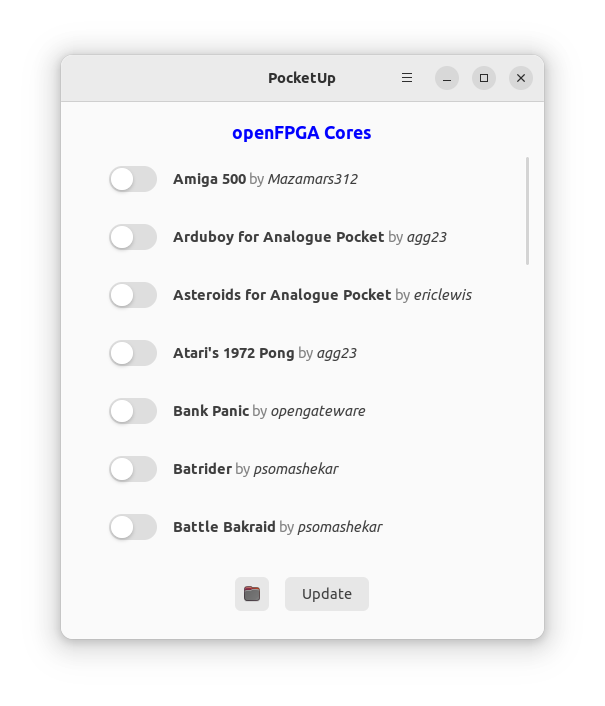
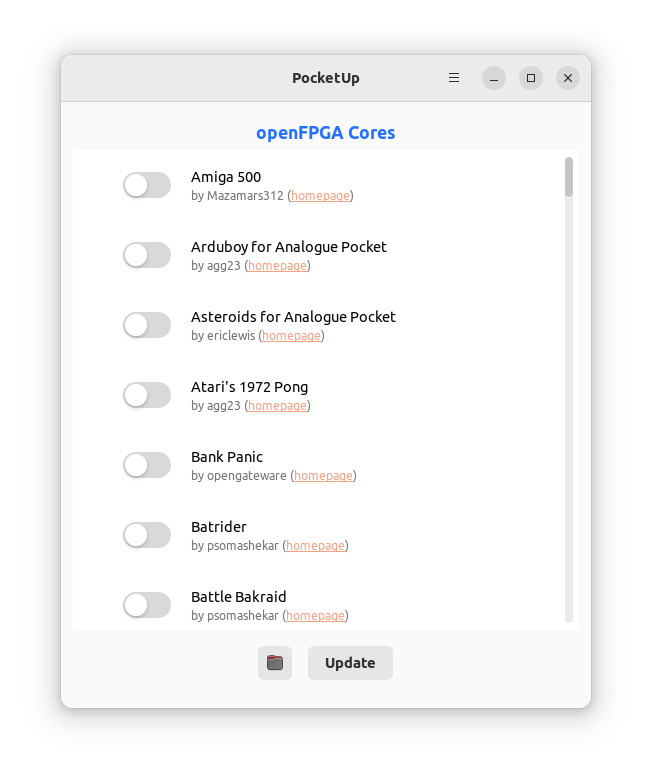
Add libadwaita and change core row type

diff --git a/src/activate.rs b/src/activate.rs
@@ -6,16 +6,18 @@ use crate::header::{build_header, build_header_bar};
 use crate::help_window::build_help_window;
 use crate::set_github_access_token_modal::build_set_github_access_token_modal;
 use crate::window_child::build_window_child;
+use adw::prelude::*;
 use gtk::gdk;
 use gtk::glib::{self, clone};
-use gtk::prelude::*;
 use gtk::{self, gio};
 
 fn load_css(settings: &gtk::Settings) {
     let display = gdk::Display::default().expect("Could not get default display.");
     let priority = gtk::STYLE_PROVIDER_PRIORITY_APPLICATION;
     let provider = gtk::CssProvider::new();
-    let theme_name = settings.gtk_theme_name().unwrap();
+    let theme_name = settings
+        .gtk_theme_name()
+        .expect("Could not get theme name.");
 
     // Check if the current them is a dark variant or if prefer dark theme is set in the GTK settings
     // and then set the appropriate CSS theme. On the current Ubuntu LTS (22.04) changing the appearance
@@ -31,7 +33,7 @@ fn load_css(settings: &gtk::Settings) {
     gtk::StyleContext::add_provider_for_display(&display, &provider, priority);
 }
 
-pub fn on_activate(app: &gtk::Application) {
+pub fn on_activate(app: &adw::Application) {
     // https://developer-old.gnome.org/gtk4/stable/GtkSettings.html
     if let Some(settings) = gtk::Settings::default() {
         // Use this for testing dark mode.
@@ -78,11 +80,17 @@ pub fn on_activate(app: &gtk::Application) {
     window.add_action(&action_about);
     window.set_titlebar(Some(&header_bar));
 
+    let list_box = gtk::ListBox::builder()
+        .selection_mode(gtk::SelectionMode::None)
+        .build();
+
     for core in POCKET_CORES {
         let core_row = build_core_row(&core);
 
-        scrolled_child.append(&core_row);
+        list_box.append(&core_row);
     }
+
+    scrolled_child.append(&list_box);
 
     scrolled_window.set_child(Some(&scrolled_child));
 

diff --git a/src/core_row.rs b/src/core_row.rs
@@ -1,18 +1,19 @@
 use crate::config::{PocketCore, APP_ID};
-use gtk::prelude::*;
+use adw::prelude::*;
 use gtk::{self, gio};
 
-pub fn build_core_row(core: &PocketCore) -> gtk::Box {
+pub fn build_core_row(core: &PocketCore) -> adw::ActionRow {
     let margin = 8;
     let row_horizontal_margin = 28;
-    let row = gtk::Box::builder()
-        .orientation(gtk::Orientation::Horizontal)
+    let row = adw::ActionRow::builder()
+        .activatable(true)
         .margin_top(margin)
         .margin_bottom(margin)
         .margin_start(row_horizontal_margin)
         .margin_end(row_horizontal_margin)
-        .valign(gtk::Align::Center)
-        .halign(gtk::Align::Start)
+        .width_request(450)
+        .title(core.name)
+        .subtitle(core.subtitle_markup())
         .build();
     let switch = gtk::Switch::builder()
         .margin_top(margin)
@@ -24,14 +25,6 @@ pub fn build_core_row(core: &PocketCore) -> gtk::Box {
         .sensitive(false) // Disable initially.
         .state(false)
         .build();
-    let label = gtk::Label::builder()
-        .margin_top(margin)
-        .margin_bottom(margin)
-        .margin_start(margin)
-        .margin_end(margin)
-        .valign(gtk::Align::Center)
-        .halign(gtk::Align::Center)
-        .build();
     let settings = gio::Settings::new(APP_ID);
 
     settings
@@ -42,9 +35,9 @@ pub fn build_core_row(core: &PocketCore) -> gtk::Box {
         .bind(&core.settings_name(), &switch, "state")
         .flags(gio::SettingsBindFlags::DEFAULT)
         .build();
-    label.set_markup(&core.description_markup());
-    row.append(&switch);
-    row.append(&label);
+
+    row.add_prefix(&switch);
+    row.set_activatable_widget(Some(&switch));
 
     row
 }

diff --git a/src/header.rs b/src/header.rs
@@ -1,5 +1,6 @@
 use crate::config::APP_NAME;
-use gtk::{self, gio, traits::WidgetExt};
+use adw::prelude::*;
+use gtk::{self, gio};
 
 pub fn build_header() -> gtk::Label {
     let margin = 8;
@@ -17,7 +18,7 @@ pub fn build_header() -> gtk::Label {
     header
 }
 
-pub fn build_header_bar() -> gtk::HeaderBar {
+pub fn build_header_bar() -> adw::HeaderBar {
     let menu = gio::Menu::new();
     let settings_section = gio::Menu::new();
     let info_section = gio::Menu::new();
@@ -35,12 +36,14 @@ pub fn build_header_bar() -> gtk::HeaderBar {
     menu.append_section(None, &settings_section);
     menu.append_section(None, &info_section);
 
-    let header_bar = gtk::HeaderBar::new();
+    let header_bar = adw::HeaderBar::new();
     let menu_model = gio::MenuModel::from(menu);
     let menu_button = gtk::MenuButton::builder()
         .icon_name("open-menu-symbolic")
         .tooltip_text("Main Menu") // https://developer.gnome.org/hig/patterns/controls/menus.html#primary-menus
         .menu_model(&menu_model)
+        .has_frame(true) // TODO: This doesn't appear to have the desired effect. Look into this!
+        .primary(true) // Adds F10 keybinding: https://gtk-rs.org/gtk4-rs/stable/latest/docs/gtk4/struct.MenuButton.html#primary
         .build();
 
     header_bar.pack_end(&menu_button);

diff --git a/src/help_window.rs b/src/help_window.rs
@@ -1,4 +1,4 @@
-use crate::config::COLUMN_WIDTH;
+use crate::config::{APP_NAME, COLUMN_WIDTH};
 use gtk::prelude::*;
 
 fn build_section_header_markup(header: &str) -> String {
@@ -12,7 +12,9 @@ fn build_section_text(sentences: &[&str]) -> String {
 }
 
 pub fn build_help_window() -> gtk::Window {
-    let help_window = gtk::Window::builder().title("PocketUp Help").build();
+    let help_window = gtk::Window::builder()
+        .title(format!("{APP_NAME} Help"))
+        .build();
     let margin = 12;
     let container = gtk::Box::builder()
         .orientation(gtk::Orientation::Vertical)
@@ -25,9 +27,11 @@ pub fn build_help_window() -> gtk::Window {
         .halign(gtk::Align::Center)
         .build();
     let main_header = gtk::Label::new(None);
-    let main_section = gtk::Label::new(Some("Welcome to the PocketUp help guide."));
+    let main_section = gtk::Label::new(Some(&format!("Welcome to the {APP_NAME} help guide.")));
 
-    main_header.set_markup(r#"<span size="xx-large"><b>PocketUp</b></span>"#);
+    main_header.set_markup(&format!(
+        r#"<span size="xx-large"><b>{APP_NAME}</b></span>"#
+    ));
 
     let selecting_your_folder_header = gtk::Label::new(None);
     let selecting_your_folder_section_text = build_section_text(&[

diff --git a/src/main.rs b/src/main.rs
@@ -11,7 +11,7 @@ mod window_child;
 
 use crate::config::APP_ID;
 use activate::on_activate;
-use gtk::prelude::*;
+use adw::prelude::*;
 use gtk::{gio, glib};
 use std::path::Path;
 
@@ -22,8 +22,7 @@ fn main() -> glib::ExitCode {
         panic!("The GTK Application ID is not valid!");
     }
 
-    // Create a new application with the builder pattern
-    let app = gtk::Application::builder().application_id(APP_ID).build();
+    let app = adw::Application::builder().application_id(APP_ID).build();
     let settings = gio::Settings::new(APP_ID);
     let pocket_base_dir = settings.get::<String>("pocket-base-dir");
     let path = Path::new(&pocket_base_dir);

diff --git a/src/config.rs b/src/config.rs
@@ -25,8 +25,11 @@ pub struct PocketCore {
 }
 
 impl PocketCore {
-    pub fn description_markup(&self) -> String {
-        format!(r#"<b>{}</b> by <i>{}</i>"#, self.name, self.author)
+    pub fn subtitle_markup(&self) -> String {
+        format!(
+            r#"by {} (<a href="{}">homepage</a>)"#,
+            self.author, self.repo
+        )
     }
 
     pub fn settings_name(&self) -> String {

diff --git a/README.md b/README.md
@@ -11,19 +11,19 @@ Build
 Prerequisites for Debian/Ubuntu:
 
 ```shell
-sudo apt install libgtk-4-dev build-essential
+sudo apt install libgtk-4-dev build-essential libadwaita-1-dev
 ```
 
 Prerequisites for Fedora:
 
 ```shell
-sudo dnf install gtk4-devel gcc
+sudo dnf install gtk4-devel gcc libadwaita-devel
 ```
 
 Prerequisites for Arch:
 
 ```shell
-sudo pacman -S gtk4 base-devel
+sudo pacman -S gtk4 base-devel libadwaita
 ```
 
 Then to build:

diff --git a/CHANGELOG.md b/CHANGELOG.md
@@ -12,6 +12,7 @@ and this project adheres to [Semantic Versioning](http://semver.org/spec/v2.0.0.
 - No longer stops downloading if an error occurs while updating.
 - Cores are now updated simultaneously instead of one at a time. Resulting in faster updates.
 - Changed the header text colors for dark and light mode.
+- Updated the visual style of the rows for each openFPGA core.
 
 [0.1.1] - 2023-03-08
 --------------------
